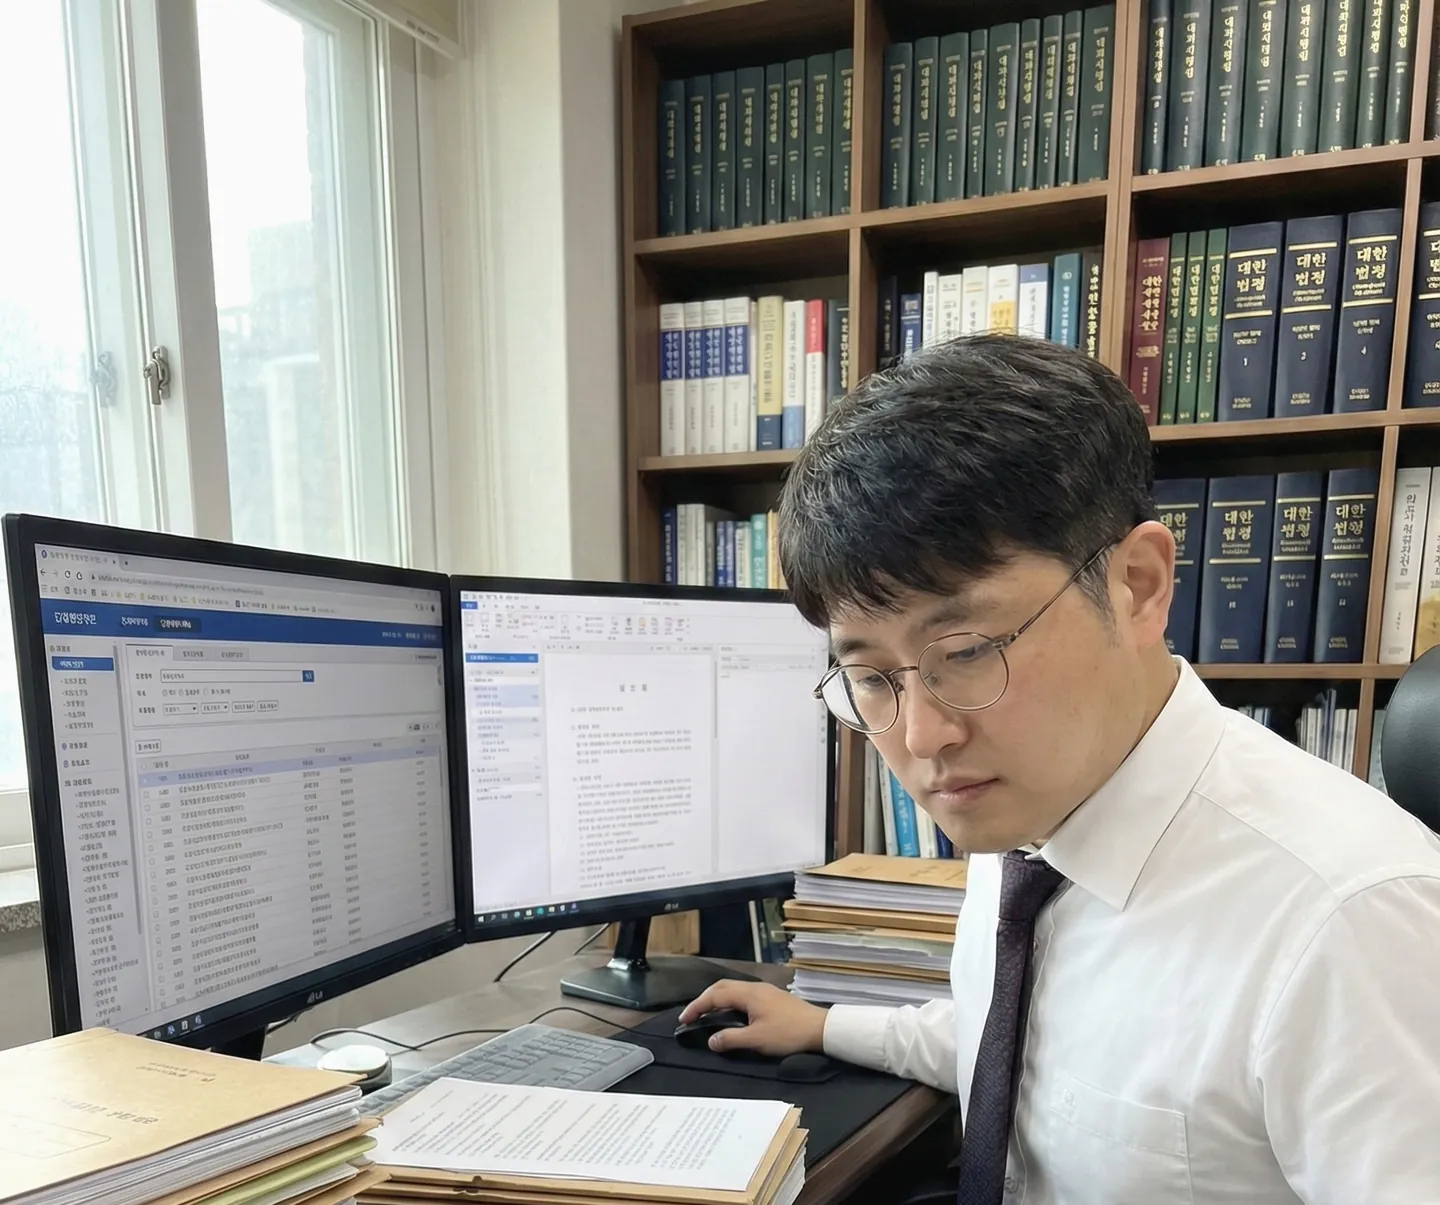
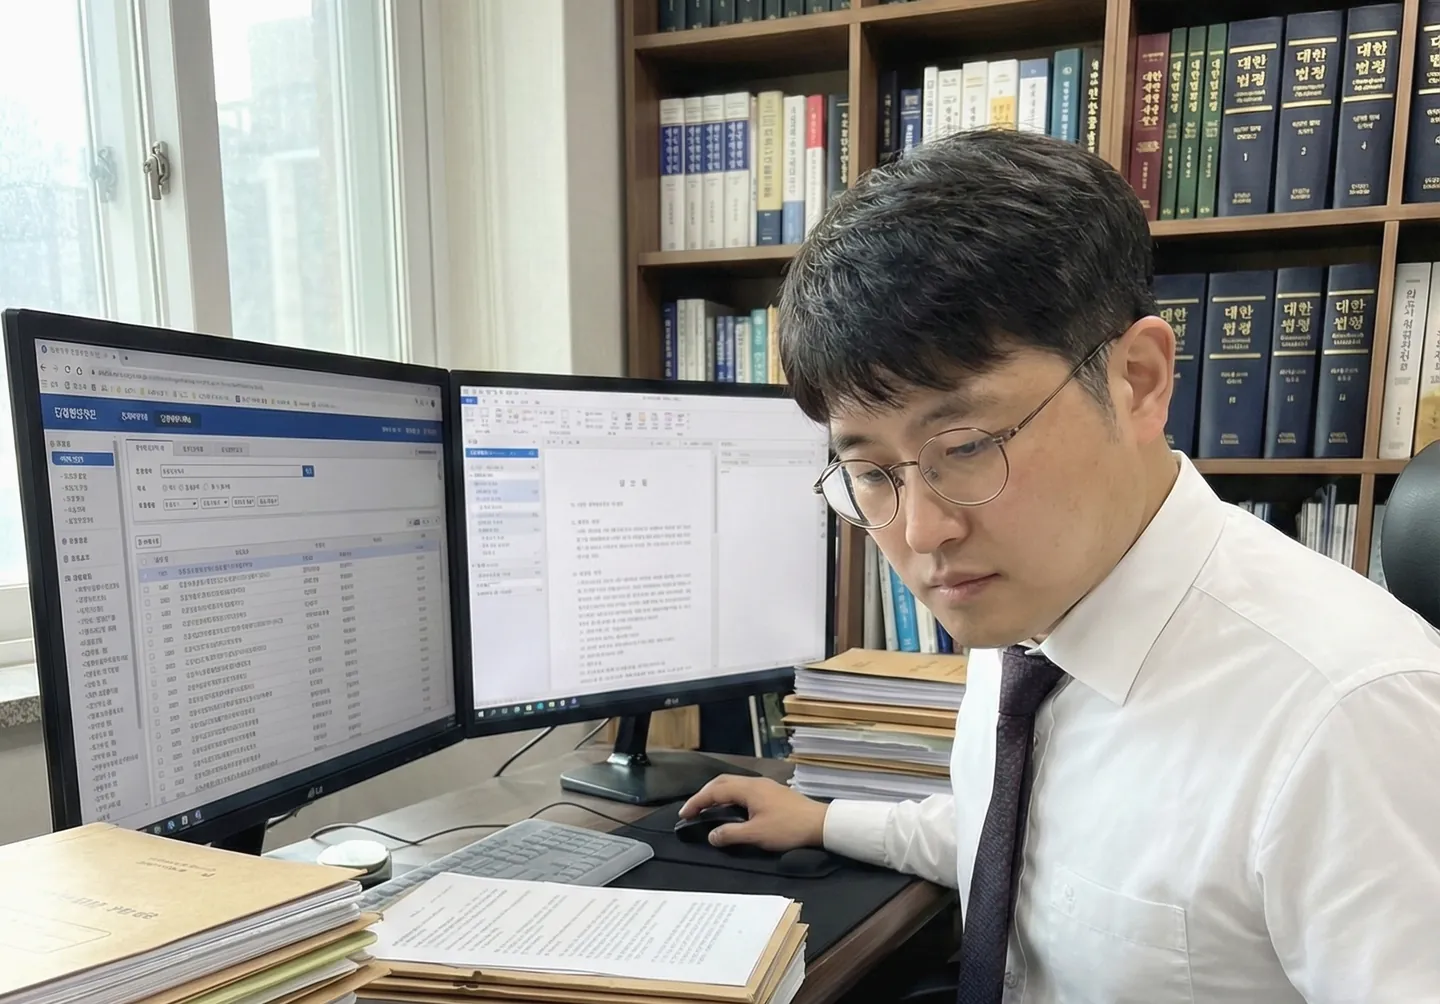
휴대전화 첫 화면 사진 띠를 낮춤(84vw → 70vw)
- 띠가 조금 높다고 하여 사진의 천장·맨 위 서가 한 줄(원본 y 0~255)을 더 잘라 내고(photo-desk.webp 1440×1004, 119KB) 띠 높이를 70vw(최대 25rem)로
- 얼굴은 띠의 20~69%에 있어 아래쪽 페이드(76%~) 바깥 그대로; 제목까지 첫 화면에 들어옴
- work/photo_desk.py의 자르는 범위도 맞춤

Claude-Session: https://claude.ai/code/session_01THUocaPHvPWUxxY9KQRVQu

diff --git a/index.html b/index.html
@@ -1037,12 +1037,13 @@ a.lec-logo:hover { border-color: var(--ink-soft); }
 @media (max-width: 760px) { .hero h1 { font-size: 1.75rem; } }
 
 /* 첫 화면 윗부분 배경 사진 (2026. 10. 21.): 휴대전화에서는 첫 화면이 글씨 위주라, 한 단으로 쌓이는 화면(900px 이하)에서만
-   먹색 바탕 윗부분에 밝은 사무실 사진(photo-desk.webp — 창가에서 판례집을 읽는 모습, 본인 사진에서 위쪽을 잘라 냄)을 깔고
+   먹색 바탕 윗부분에 밝은 사무실 사진(photo-desk.webp — 창가에서 판례집을 읽는 모습, 본인 사진에서 천장과 맨 위 서가 한 줄을 뺀 윗부분을 잘라 냄)을 깔고
    아래로 갈수록 첫 화면 바탕색(--hero-bg)으로 녹아들게 한다. 이름 줄은 사진이 거의 어두워진 자리에서 시작해 글씨가 묻히지 않는다.
-   띠 높이는 사진 비율(1.195:1)에 맞춘 84vw(최대 30rem) — 휴대전화에서는 사진이 잘리지 않고, 태블릿에서는 얼굴이 보이는 중간 부분을 보인다.
-   넓은 화면(두 단 배치)은 그대로 둔다. color-mix를 모르는 옛 브라우저는 그 앞의 rgba 선언으로 같은 효과를 낸다. */
+   띠 높이는 사진 비율(1.434:1)에 맞춘 70vw(최대 25rem) — 휴대전화에서는 사진이 잘리지 않고, 태블릿에서는 얼굴이 보이는 중간 부분을 보인다.
+   (처음 84vw·1.195:1이었으나 띠가 조금 높다고 하여 같은 날 13시 사진 윗부분을 더 잘라 낮춤 — 얼굴(띠의 20~69%)은 그대로 페이드 바깥.)
+   넓은 화면(두 단 배치)은 아래 블록. color-mix를 모르는 옛 브라우저는 그 앞의 rgba 선언으로 같은 효과를 낸다. */
 @media (max-width: 900px) {
-  .hero { --band: min(84vw, 30rem); padding-top: calc(var(--band) - 2.75rem); }
+  .hero { --band: min(70vw, 25rem); padding-top: calc(var(--band) - 2.75rem); }
   .hero::before {
     content: "";
     position: absolute;

diff --git a/work/photo_desk.py b/work/photo_desk.py
@@ -2,7 +2,8 @@
 
 원본: 본인이 보낸 사무실 사진(창가에서 판례집을 읽는 모습, 1792×2400 PNG — 저장소에는 없음).
 두 장을 만든다(둘 다 가로 전체, 1440px 폭 WebP, 밝기 +5%·대비 −4%·그림자 살짝 들어올림):
-  photo-desk.webp       위쪽 y 0~1500 (1.195:1) — 휴대전화(900px 이하) 첫 화면 윗부분의 띠
+  photo-desk.webp       y 255~1505 (1.434:1, 천장과 맨 위 서가 한 줄을 뺀 범위) — 휴대전화(900px 이하) 첫 화면 윗부분의 띠
+                        (처음에는 y 0~1500·1.195:1이었으나 띠가 조금 높다고 하여 2026. 10. 21. 13시 줄임)
   photo-desk-tall.webp  위쪽 y 0~2000 (0.896:1, 책상 위 판례집까지) — 넓은 화면 첫 화면 오른쪽 판
 
 쓰는 법: python3 work/photo_desk.py 원본.png ./
@@ -22,9 +23,9 @@ def enhance(c):
     return c.point(lut)
 
 
-for name, bottom in (("photo-desk.webp", 1500), ("photo-desk-tall.webp", 2000)):
-    crop = enhance(im.crop((0, 0, W, bottom)))
-    crop = crop.resize((1440, round(bottom * 1440 / W)), Image.LANCZOS)
+for name, top, bottom in (("photo-desk.webp", 255, 1505), ("photo-desk-tall.webp", 0, 2000)):
+    crop = enhance(im.crop((0, top, W, bottom)))
+    crop = crop.resize((1440, round((bottom - top) * 1440 / W)), Image.LANCZOS)
     path = os.path.join(out_dir, name)
     crop.save(path, "WEBP", quality=80, method=6)
     print(name, crop.size, os.path.getsize(path) // 1024, "KB")
